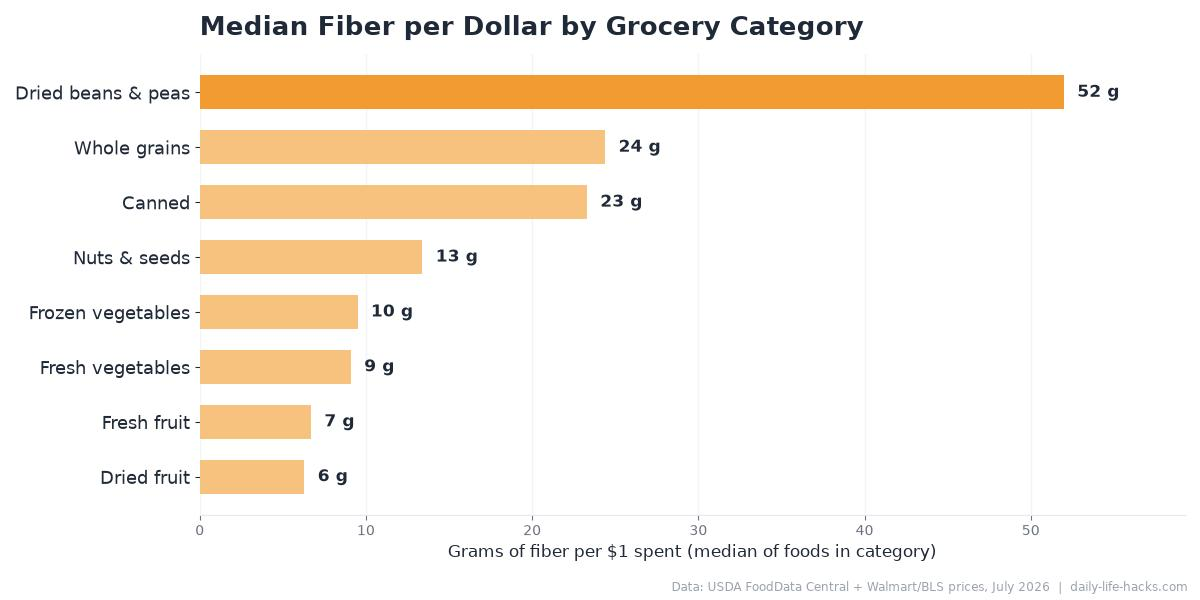
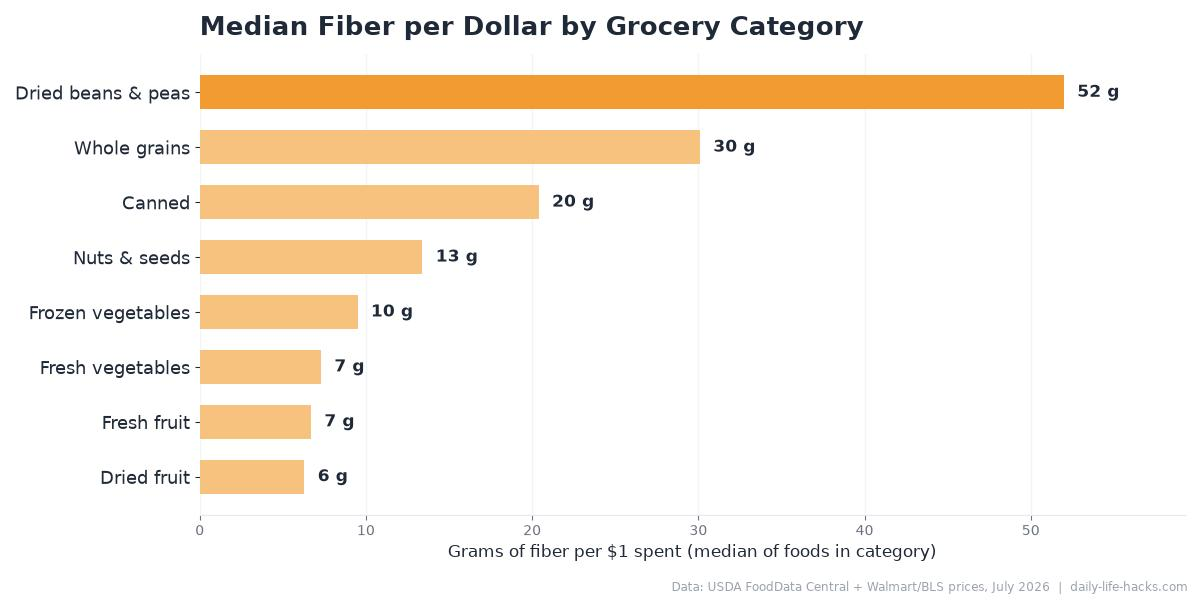
fix(content): correct 6 audited values in Fiber per Dollar study
Adversarial audit vs USDA FoodData Central found: split peas used the
outdated SR-28 fiber value (25.5 -> 22.2), spaghetti used a brand label
(10.7 -> 9.2), potato used baked-basis (2.1 -> 1.3), canned kidney used
drained-basis (5.6 -> 4.3), bran flakes were low (13.0 -> 18.3), and
flaxseed had a nonexistent package size. All 53 rows recomputed and
re-ranked; whole wheat flour is now #1 (78 g/$), split peas #2 (71).
Charts regenerated; article carries a transparent correction note.

Changed region(s): [[0.4933, 0.21, 0.6475, 0.3], [0.4317, 0.3, 0.555, 0.39], [0.2467, 0.57, 0.3392, 0.66]]

diff --git a/src/data/articles/fiber-per-dollar-cheapest-high-fiber-foods.md b/src/data/articles/fiber-per-dollar-cheapest-high-fiber-foods.md
@@ -4,25 +4,25 @@ excerpt: "We ranked 53 common grocery foods by grams of fiber per dollar, using 
 category: "nutrition"
 tags: ["cheapest high fiber foods", "fiber per dollar", "budget groceries", "high fiber on a budget", "grocery data"]
 image: "/images/fiber-per-dollar-cheapest-high-fiber-foods-main.jpg"
-imageAlt: "Horizontal bar chart ranking the top 20 cheapest high-fiber foods by grams of fiber per dollar, with green split peas in first place"
+imageAlt: "Horizontal bar chart ranking the top 20 cheapest high-fiber foods by grams of fiber per dollar, with whole wheat flour in first place"
 date: 2026-07-04
 author: "David Miller"
 faq:
   - question: "What food has the most fiber per dollar?"
-    answer: "In our analysis of 53 common US grocery foods, dry green split peas came out on top at roughly 84 grams of fiber per dollar, based on USDA fiber data and July 2026 prices. A one pound bag costs around $1.37 and holds about 116 grams of fiber. Dried pinto beans and pearled barley were close behind."
+    answer: "In our analysis of 53 common US grocery foods, whole wheat flour technically came out on top at roughly 78 grams of fiber per dollar, but you only get that fiber if you bake with it. Among foods you cook and eat as-is, dry green split peas lead at about 71 grams of fiber per dollar, based on USDA fiber data and July 2026 prices. A one pound bag costs around $1.42 and holds about 101 grams of fiber. Dried pinto beans finished within a rounding error of split peas."
   - question: "Are dried beans really cheaper than canned beans for fiber?"
     answer: "Yes, by a wide margin. In our numbers, dry pinto beans delivered about 2.5 times more fiber per dollar than canned black beans (roughly 71 grams per dollar versus 28). Canned still beats almost every fresh food on the list, though, so it's a solid middle option when you don't want to cook a pot of beans from scratch."
   - question: "Is fresh fruit a bad way to get fiber on a budget?"
-    answer: "Not bad, just expensive per gram. Fresh berries landed at the bottom of our ranking, with blueberries around 2.5 grams of fiber per dollar. Bananas were the best fresh fruit value at about 12 grams per dollar. Fruit earns its spot for flavor and convenience; it just shouldn't be the main place your fiber budget goes if money is tight."
+    answer: "Not bad, just expensive per gram. Fresh berries landed at the bottom of our ranking, with blueberries around 2.5 grams of fiber per dollar. Bananas were the best fresh fruit value at just under 12 grams per dollar. Fruit earns its spot for flavor and convenience; it just shouldn't be the main place your fiber budget goes if money is tight."
   - question: "How is fiber per dollar calculated?"
-    answer: "We took each food's fiber content per 100 grams from USDA FoodData Central, matched it to a typical July 2026 US price per package (mostly Walmart national listings, cross-checked against BLS average price data), and divided total fiber in the package by its price. For foods with peels or pits, we counted only the edible portion."
+    answer: "We took each food's fiber content per 100 grams from USDA FoodData Central, matched it to a typical July 2026 US price per package (mostly Walmart national listings, cross-checked against BLS average price data), and divided total fiber in the package by its price. For foods with peels or pits, we counted only the edible portion. All fiber values were re-verified against USDA FoodData Central on July 4, 2026."
   - question: "Do local price differences change the ranking?"
     answer: "The exact numbers will shift with your store and region, but the tiers barely move. Dried beans, split peas, and whole grains are so far ahead of fresh produce that even a 30 to 40 percent price swing doesn't change which end of the list a food sits on. Treat the rankings as tiers, not precise scores."
 ---
 
 I built a spreadsheet nobody asked for. I took 53 foods from a normal American grocery run, pulled the fiber numbers for each one from the USDA database, matched them to current prices, and calculated exactly how many grams of fiber one dollar buys.
 
-The result is a full ranking of the cheapest high-fiber foods in the store, and the gap between the top and the bottom is honestly absurd. A dollar of dry split peas buys about 84 grams of fiber. A dollar of fresh blueberries buys 2.5 grams. Same nutrient, 34 times the price. If fiber were gasoline, that would be the difference between $3 a gallon and $102 a gallon, and we'd all be rioting.
+The result is a full ranking of the cheapest high-fiber foods in the store, and the gap between the top and the bottom is honestly absurd. A dollar of dry split peas buys about 71 grams of fiber. A dollar of fresh blueberries buys 2.5 grams. Same nutrient, 28 times the price. If fiber were gasoline, that would be the difference between $3 a gallon and $85 a gallon, and we'd all be rioting.
 
 ## How we ran the numbers
 
@@ -32,32 +32,34 @@ No mystery math here. Three steps:
 * **Prices:** typical US prices collected in July 2026, mostly from Walmart.com national listings (store brand where one exists), cross-checked against Bureau of Labor Statistics average price data. Some are national averages, rounded. Your store will differ a little. The tiers won't.
 * **The math:** total grams of fiber in the package, divided by the package price. For foods with peels, cores, or pits (bananas, oranges, avocados, apples, pears), we only counted the edible portion, because you can't eat a banana peel no matter what the per-pound sticker implies.
 
+One more thing, because a data article that can't admit mistakes isn't a data article. On July 4, 2026 we re-verified every fiber value against USDA FoodData Central and every price against current shelf listings, and corrected several figures (split peas, whole wheat spaghetti, russet potatoes, canned kidney beans, bran flakes, and flaxseed). The table below is the checked version.
+
 The full dataset is public. You can download the raw CSV [here](/data/fiber-per-dollar-2026.csv) and check every number yourself.
 
 ## The full ranking: 53 foods by fiber per dollar
 
 | Rank | Food | Fiber (g per 100g) | Price per 100g | Fiber per $1 |
 |---|---|---|---|---|
-| 1 | Green split peas (dry) | 25.5 g | $0.30 | 84.5 g |
-| 2 | Whole wheat flour | 10.7 g | $0.14 | 77.8 g |
+| 1 | Whole wheat flour | 10.7 g | $0.14 | 77.8 g |
+| 2 | Green split peas (dry) | 22.2 g | $0.31 | 71.0 g |
 | 3 | Pinto beans (dry) | 15.5 g | $0.22 | 70.8 g |
 | 4 | Black beans (dry) | 15.5 g | $0.27 | 58.1 g |
 | 5 | Popcorn kernels | 14.5 g | $0.25 | 57.7 g |
 | 6 | Pearled barley (dry) | 15.6 g | $0.27 | 57.1 g |
 | 7 | Navy beans (dry) | 15.3 g | $0.29 | 52.0 g |
-| 8 | Whole flaxseed | 27.3 g | $0.63 | 43.4 g |
-| 9 | Whole wheat spaghetti | 10.7 g | $0.26 | 41.2 g |
-| 10 | Old-fashioned rolled oats | 10.1 g | $0.28 | 35.8 g |
-| 11 | Chickpeas (dry) | 12.2 g | $0.36 | 33.8 g |
-| 12 | Brown lentils (dry) | 10.7 g | $0.32 | 33.7 g |
-| 13 | Chia seeds | 34.4 g | $1.04 | 33.1 g |
-| 14 | Canned black beans | 5.6 g | $0.20 | 27.9 g |
-| 15 | Red lentils (dry) | 10.8 g | $0.43 | 25.3 g |
-| 16 | Canned kidney beans | 5.6 g | $0.22 | 25.1 g |
+| 8 | Old-fashioned rolled oats | 10.1 g | $0.28 | 35.8 g |
+| 9 | Whole wheat spaghetti | 9.2 g | $0.26 | 35.4 g |
+| 10 | Chickpeas (dry) | 12.2 g | $0.36 | 33.8 g |
+| 11 | Brown lentils (dry) | 10.7 g | $0.32 | 33.7 g |
+| 12 | Chia seeds | 34.4 g | $1.04 | 33.1 g |
+| 13 | Bran flakes cereal | 18.3 g | $0.61 | 30.1 g |
+| 14 | Whole flaxseed | 27.3 g | $0.96 | 28.5 g |
+| 15 | Canned black beans | 5.6 g | $0.20 | 27.9 g |
+| 16 | Red lentils (dry) | 10.8 g | $0.43 | 25.3 g |
 | 17 | Bulgur wheat (dry) | 12.5 g | $0.51 | 24.4 g |
 | 18 | Oat bran (dry) | 15.4 g | $0.68 | 22.5 g |
 | 19 | Canned chickpeas | 4.8 g | $0.22 | 21.5 g |
-| 20 | Bran flakes cereal | 13.0 g | $0.61 | 21.4 g |
+| 20 | Canned kidney beans | 4.3 g | $0.22 | 19.3 g |
 | 21 | Frozen green peas | 4.5 g | $0.26 | 17.6 g |
 | 22 | Brown rice (dry) | 3.6 g | $0.21 | 17.5 g |
 | 23 | 100% whole wheat bread | 6.0 g | $0.35 | 17.3 g |
@@ -69,21 +71,21 @@ The full dataset is public. You can download the raw CSV [here](/data/fiber-per-
 | 29 | Bananas | 2.6 g | $0.14 | 11.6 g |
 | 30 | Peanut butter | 5.0 g | $0.44 | 11.4 g |
 | 31 | Frozen green beans | 2.7 g | $0.24 | 11.2 g |
-| 32 | Russet potatoes (with skin) | 2.1 g | $0.20 | 10.7 g |
-| 33 | Quinoa (dry) | 7.0 g | $0.66 | 10.6 g |
-| 34 | Avocado | 6.7 g | $0.47 | 10.4 g |
-| 35 | Canned pumpkin | 2.9 g | $0.29 | 9.9 g |
-| 36 | Frozen broccoli florets | 3.0 g | $0.32 | 9.5 g |
-| 37 | Almonds | 12.5 g | $1.43 | 8.8 g |
-| 38 | Frozen chopped spinach | 2.9 g | $0.35 | 8.4 g |
-| 39 | Frozen shelled edamame | 5.2 g | $0.62 | 8.3 g |
-| 40 | Prunes (dried plums) | 7.1 g | $0.88 | 8.1 g |
-| 41 | Pears | 3.1 g | $0.35 | 8.0 g |
-| 42 | Apples (gala) | 2.4 g | $0.28 | 7.7 g |
-| 43 | Chopped kale (bagged) | 4.1 g | $0.55 | 7.5 g |
-| 44 | Yellow onions | 1.7 g | $0.24 | 7.1 g |
-| 45 | Brussels sprouts | 3.8 g | $0.55 | 7.0 g |
-| 46 | Oranges (navel) | 2.4 g | $0.26 | 6.7 g |
+| 32 | Quinoa (dry) | 7.0 g | $0.66 | 10.6 g |
+| 33 | Avocado | 6.7 g | $0.47 | 10.4 g |
+| 34 | Canned pumpkin | 2.9 g | $0.29 | 9.9 g |
+| 35 | Frozen broccoli florets | 3.0 g | $0.32 | 9.5 g |
+| 36 | Almonds | 12.5 g | $1.43 | 8.8 g |
+| 37 | Frozen chopped spinach | 2.9 g | $0.35 | 8.4 g |
+| 38 | Frozen shelled edamame | 5.2 g | $0.62 | 8.3 g |
+| 39 | Prunes (dried plums) | 7.1 g | $0.88 | 8.1 g |
+| 40 | Pears | 3.1 g | $0.35 | 8.0 g |
+| 41 | Apples (gala) | 2.4 g | $0.28 | 7.7 g |
+| 42 | Chopped kale (bagged) | 4.1 g | $0.55 | 7.5 g |
+| 43 | Yellow onions | 1.7 g | $0.24 | 7.1 g |
+| 44 | Brussels sprouts | 3.8 g | $0.55 | 7.0 g |
+| 45 | Oranges (navel) | 2.4 g | $0.26 | 6.7 g |
+| 46 | Russet potatoes (with skin) | 1.3 g | $0.20 | 6.6 g |
 | 47 | Raisins | 3.7 g | $0.59 | 6.3 g |
 | 48 | Fresh broccoli crowns | 2.6 g | $0.43 | 6.1 g |
 | 49 | Chopped dates | 8.0 g | $1.31 | 6.1 g |
@@ -96,7 +98,7 @@ Fiber per $1 accounts for edible portion on fresh fruit, so bananas are scored o
 
 ## What the numbers actually say
 
-**The dry goods aisle is running the table.** Nine of the top twelve foods are dried beans, peas, or whole grains. Dry split peas deliver about 84 grams of fiber per dollar, roughly 19 times more than fresh raspberries and 34 times more than blueberries. One $1.37 bag of split peas holds around 116 grams of fiber. For context, the FDA's Daily Value for fiber is 28 grams, so that single dollar-and-change bag covers about four days' worth. If you've never cooked them, our [split pea soup recipe](/split-pea-soup-recipe-high-fiber/) is the easy on-ramp.
+**The dry goods aisle is running the table.** Eleven of the top twelve foods are dried beans, peas, or whole grains. Whole wheat flour technically wins the whole list at about 78 grams of fiber per dollar, but flour is an ingredient, not dinner (more on that below). Among foods you can actually cook and eat, dry split peas take the crown at about 71 grams of fiber per dollar, roughly 16 times more than fresh raspberries and 28 times more than blueberries. One $1.42 bag of split peas holds around 101 grams of fiber. For context, the FDA's Daily Value for fiber is 28 grams, so that single dollar-and-change bag covers about three and a half days' worth. If you've never cooked them, our [split pea soup recipe](/split-pea-soup-recipe-high-fiber/) is the easy on-ramp.
 
 **Dry beans beat canned by 2.5x.** Dry pinto beans came in around 71 grams of fiber per dollar; canned black beans, about 28. Canned is still a genuinely good deal, and I keep a shelf of them for lazy nights. But if the soaking step is the only thing stopping you, the [same-day quick-soak method](/how-to-quick-soak-dried-beans-same-day/) removes the excuse.
 
@@ -104,15 +106,15 @@ Fiber per $1 accounts for edible portion on fresh fruit, so bananas are scored o
 
 **Frozen quietly beats fresh.** Frozen green peas scored 17.6 grams per dollar; fresh broccoli crowns, 6.1. That matches what we found when we compared [frozen versus fresh produce](/frozen-vs-fresh-produce-when-to-buy/) more broadly: the freezer aisle is where the value hides.
 
-**Berries are a luxury good, fiber-wise.** The bottom four spots are all berries. Raspberries look impressive at 6.5 grams of fiber per 100 grams, but at $2.48 for a 6 ounce clamshell, you're paying boutique prices. Five dollars buys 422 grams of fiber as split peas or 12 grams as blueberries.
+**Berries are a luxury good, fiber-wise.** The bottom four spots are all berries. Raspberries look impressive at 6.5 grams of fiber per 100 grams, but at $2.48 for a 6 ounce clamshell, you're paying boutique prices. Five dollars buys 355 grams of fiber as split peas or 12 grams as blueberries.
 
-![Bar chart comparing how many total grams of fiber five dollars buys across ten common foods, from 422 grams for split peas down to 12 grams for blueberries](/images/fiber-per-dollar-five-dollars.jpg)
+![Bar chart comparing how many total grams of fiber five dollars buys across ten common foods, from 355 grams for split peas down to 12 grams for blueberries](/images/fiber-per-dollar-five-dollars.jpg)
 
 ## The fine print on the top of the list
 
 Two honest caveats before you fill a cart with split peas.
 
-Whole wheat flour sits at number 2, and nobody eats flour with a spoon. It only counts if you bake, so treat it as a quiet upgrade: swap it into pancakes, muffins, and bread dough and the fiber tags along for pennies. Same logic applies to whole wheat spaghetti at number 9, except that one you can actually boil and eat on a Tuesday.
+Whole wheat flour sits at number 1, and nobody eats flour with a spoon. It only counts if you bake, so treat it as a quiet upgrade: swap it into pancakes, muffins, and bread dough and the fiber tags along for pennies. If you want a number one you can actually put in a pot tonight, that's split peas at number 2. Same asterisk applies to whole wheat spaghetti at number 9, except that one you can boil and eat on a Tuesday.
 
 And ranking low doesn't make a food bad. Berries, avocados, and Brussels sprouts bring things to the table that a bag of navy beans never will. This list answers exactly one question: where each fiber dollar goes furthest. It's a map, not a meal plan.
 